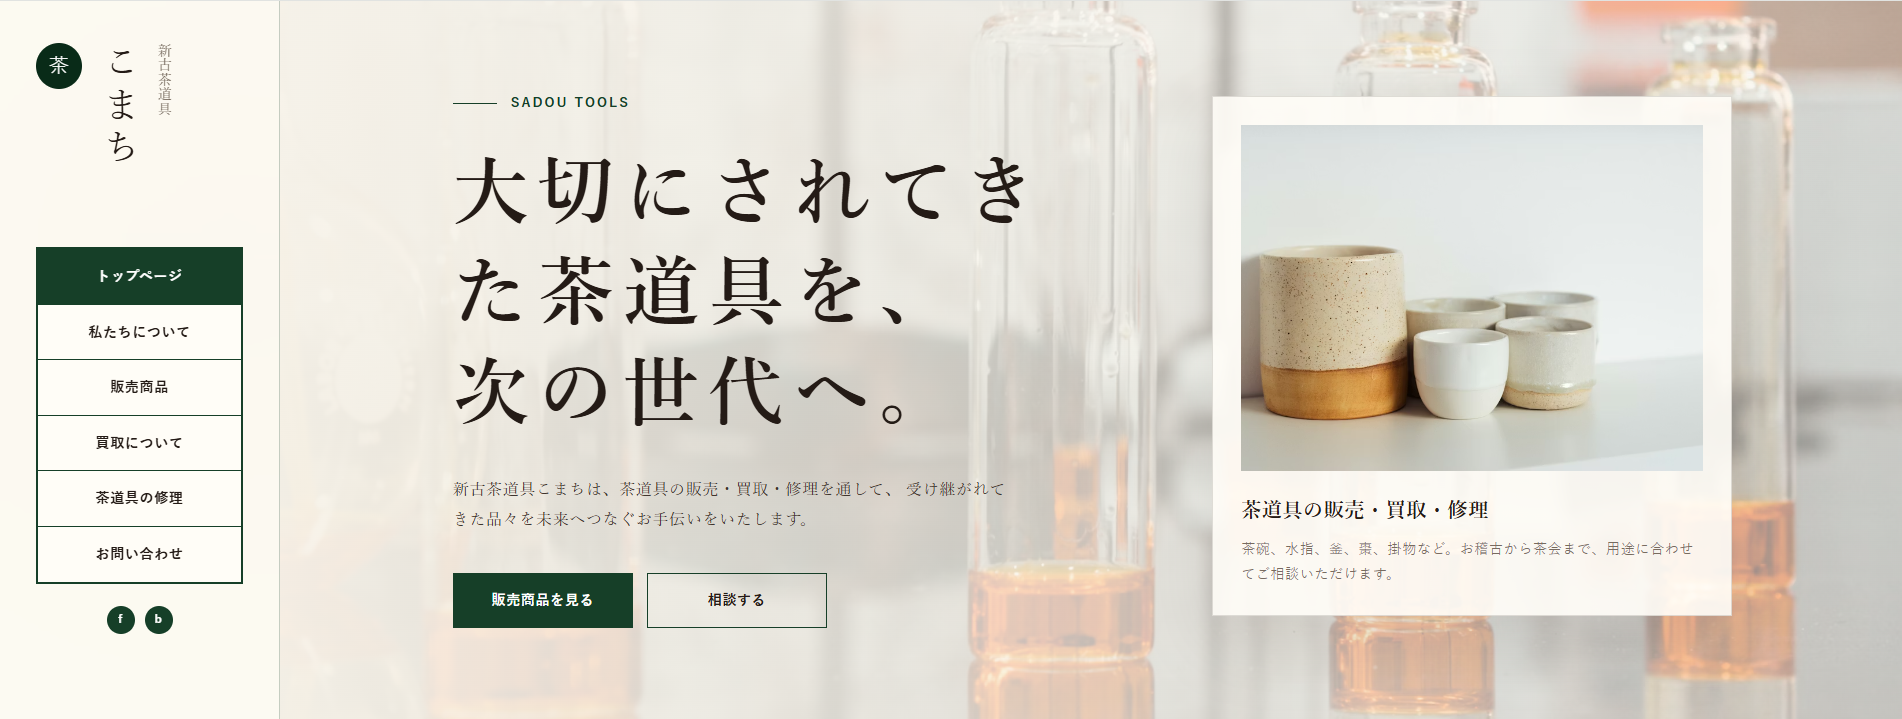
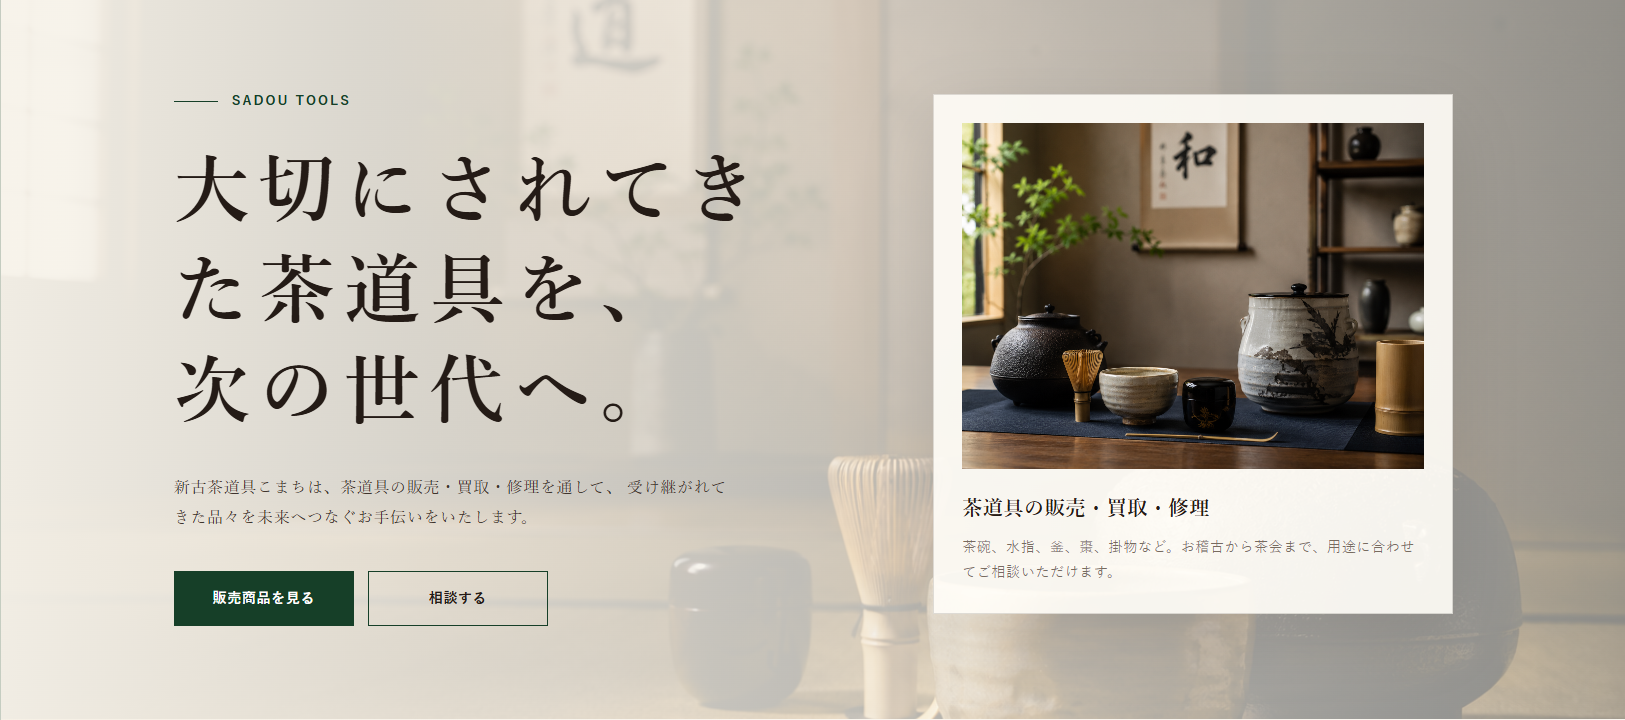
feat: Add new images for Sadouguya section and update references in index.html and style.css

diff --git a/public/samples/sadouguya/index.html b/public/samples/sadouguya/index.html
@@ -49,10 +49,7 @@
           </div>
 
           <div class="hero-card">
-            <img
-              src="https://images.unsplash.com/photo-1610701596007-11502861dcfa?auto=format&fit=crop&w=900&q=80"
-              alt="茶道具のイメージ"
-            />
+            <img src="./images/hero2.png" alt="茶道具のイメージ" />
             <h2>茶道具の販売・買取・修理</h2>
             <p>
               茶碗、水指、釜、棗、掛物など。お稽古から茶会まで、用途に合わせてご相談いただけます。
@@ -70,19 +67,13 @@
 
           <div class="service-grid">
             <article class="service-card">
-              <img
-                src="https://images.unsplash.com/photo-1597696929736-6d13bed8e6a8?auto=format&fit=crop&w=900&q=80"
-                alt="販売商品のイメージ"
-              />
+              <img src="./images/product1.png" alt="販売商品のイメージ" />
               <h3>販売商品</h3>
               <p>茶碗、棗、水指、釜、掛物など、稽古から茶会まで使える茶道具を取り扱っています。</p>
             </article>
 
             <article class="service-card" id="buying">
-              <img
-                src="https://images.unsplash.com/photo-1594736797933-d0501ba2fe65?auto=format&fit=crop&w=900&q=80"
-                alt="買取のイメージ"
-              />
+              <img src="./images/buying.png" alt="買取のイメージ" />
               <h3>買取について</h3>
               <p>
                 ご自宅に眠る茶道具や、整理が必要な道具のご相談を承ります。点数が多い場合もご相談ください。
@@ -90,10 +81,7 @@
             </article>
 
             <article class="service-card" id="repair">
-              <img
-                src="https://images.unsplash.com/photo-1542291026-7eec264c27ff?auto=format&fit=crop&w=900&q=80"
-                alt="修理のイメージ"
-              />
+              <img src="./images/repair.png" alt="修理のイメージ" />
               <h3>茶道具の修理</h3>
               <p>
                 茶碗、釜、掛物、表具など、大切な道具を長く使うための修理・仕立てをご案内いたします。
@@ -136,10 +124,7 @@
 
         <section class="section" id="about">
           <div class="about-block">
-            <img
-              src="https://images.unsplash.com/photo-1583416750470-965b2707b355?auto=format&fit=crop&w=1000&q=80"
-              alt="和室と茶道具のイメージ"
-            />
+            <img src="./images/about.png" alt="和室と茶道具のイメージ" />
             <div class="about-copy">
               <p class="section-kicker">ABOUT US</p>
               <h2>道具に宿る時間を、<br />丁寧に受け継ぐ。</h2>

diff --git a/public/samples/sadouguya/style.css b/public/samples/sadouguya/style.css
@@ -162,7 +162,7 @@ a {
 .hero-photo {
   position: absolute;
   inset: 0;
-  background-image: url('https://images.unsplash.com/photo-1602928321679-560bb453f190?auto=format&fit=crop&w=1800&q=80');
+  background-image: url('./images/hero.png');
   background-size: cover;
   background-position: center;
   opacity: 0.5;